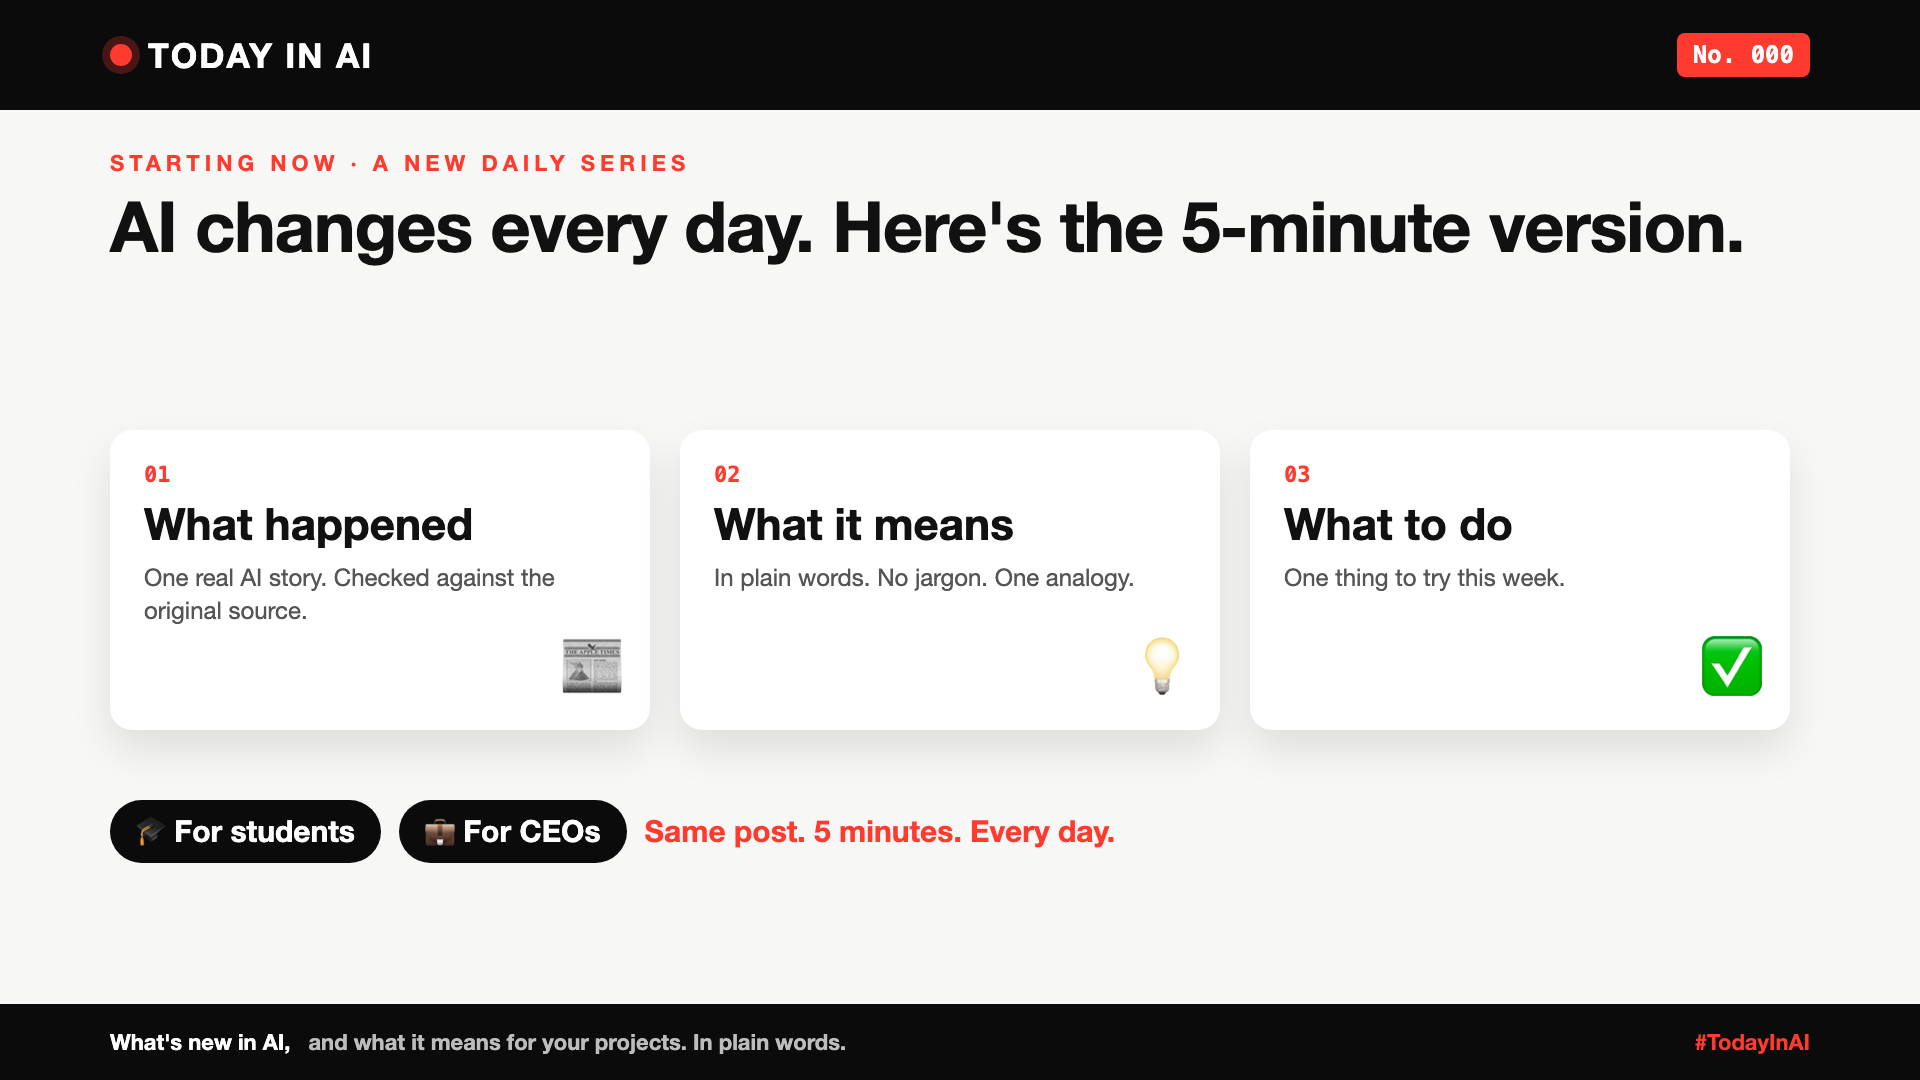
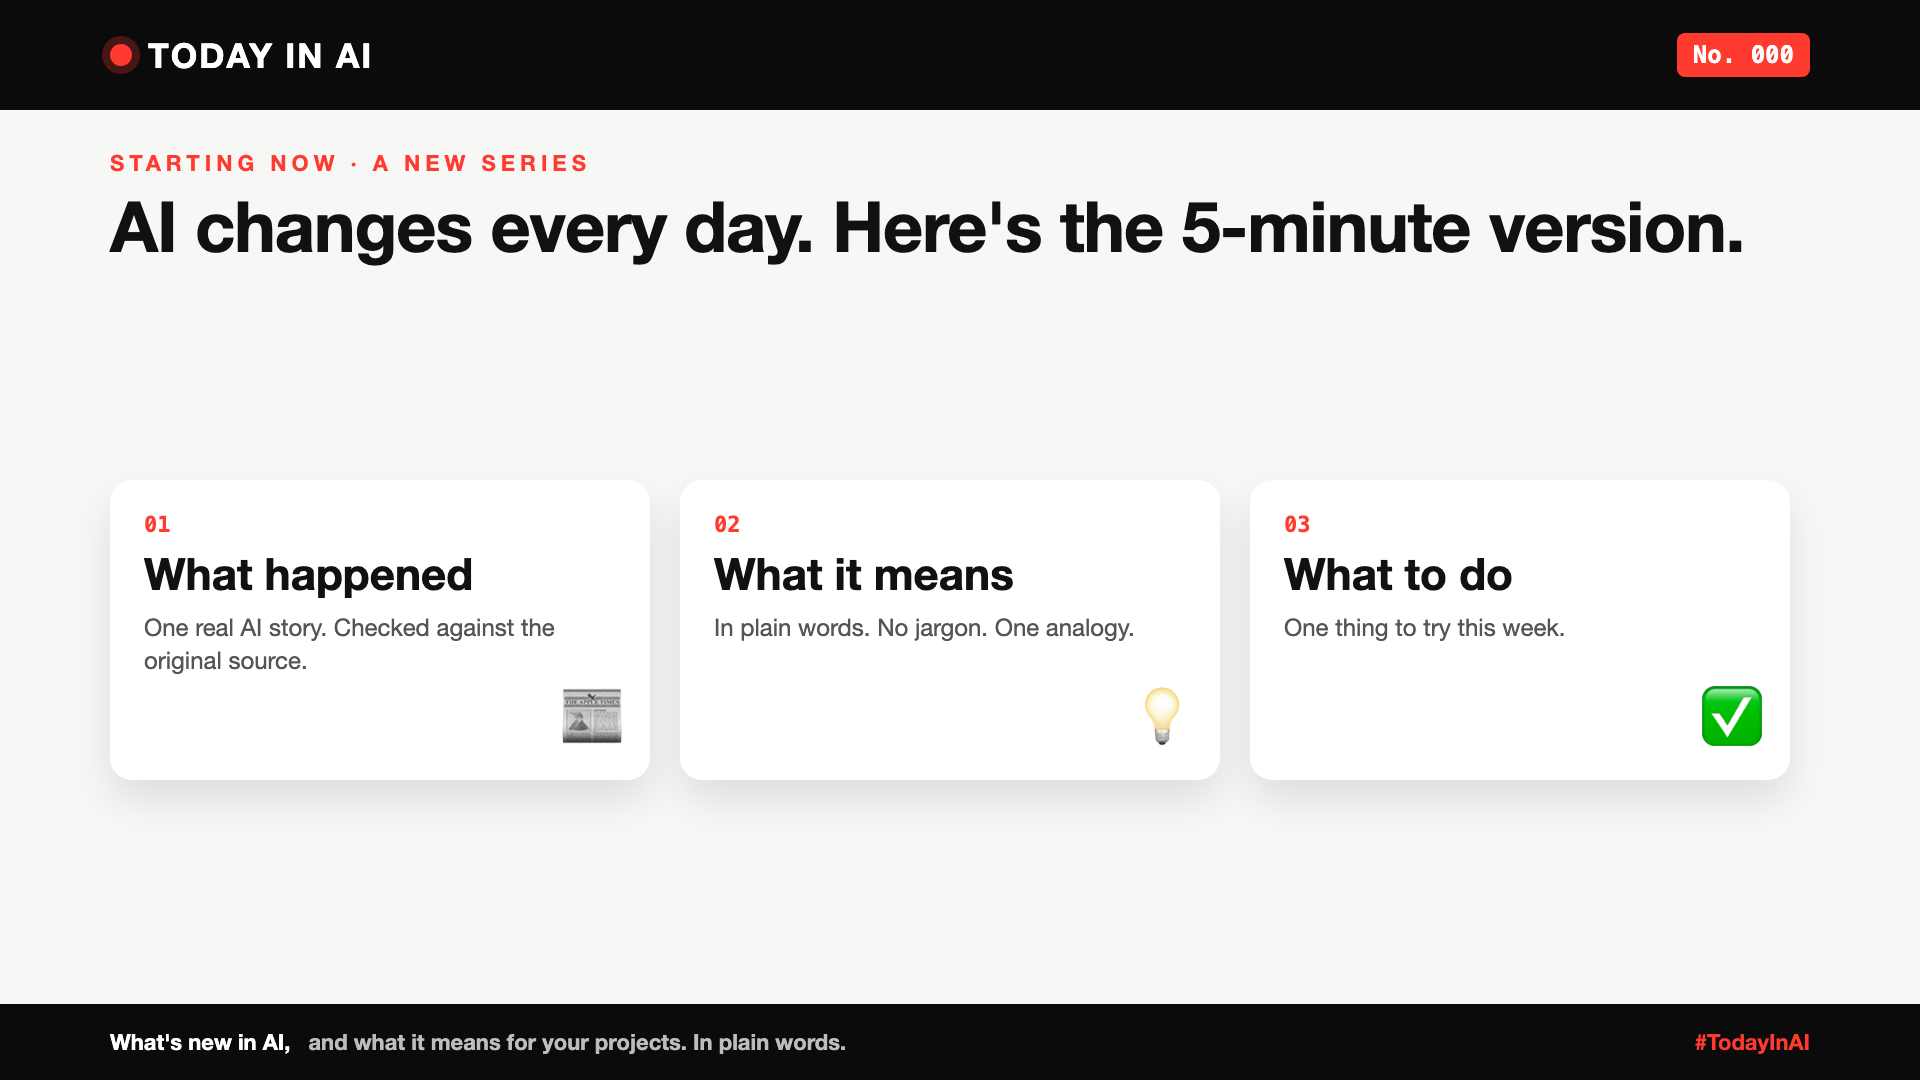
Today in AI: no fixed cadence; curtain raiser post and image updated

diff --git a/20-today-in-ai/README.md b/20-today-in-ai/README.md
@@ -2,7 +2,7 @@
 
 **Theme:** what's new in AI today, and what it means for your projects. In plain words.
 
-**Type:** an open-ended daily series. It never closes. One write-up a day, numbered No. 001, No. 002, and so on.
+**Type:** an open-ended series. It never closes. No fixed cadence: some days one, some weeks several. Numbered No. 001, No. 002, and so on. Never promise "daily" or "every day" in posts or covers.
 
 **Audience:** young readers (students, people starting their careers) AND CXOs, in the same write-up. Simpler than the other series.
 
@@ -12,7 +12,7 @@
 
 ## How each write-up works
 
-- **Pick:** one AI development that matters that day (a model release, a research result, a new tool, a regulation, a big outage or an industry move). One topic per write-up, not a news roundup.
+- **Pick:** one AI development that matters (a model release, a research result, a new tool, a regulation, a big outage or an industry move). One topic per write-up, not a news roundup.
 - **Verify:** check it on the day against the original source (the company's announcement, the paper, the official notice). Link the sources in the write-up, and date them. No rumours, no unconfirmed numbers.
 - **Keep it simple (user rule):** short sentences, everyday words, no jargon without a one-line explanation, one relatable analogy, light humor. Every write-up has: an "In one line" summary at the top, a "Why it matters to you" section with one line for people learning AI and one for leaders, a "One thing to do this week" with both angles, and a short "Words to know" list before the references.
 - **Shape (short, 400 to 600 words):**

diff --git a/ROADMAP.md b/ROADMAP.md
@@ -28,10 +28,10 @@ Each topic is its own series, numbered below. Each is a sentence that sounds eas
 | 19 | "We bought the brain, we're done" | L5 | The agent harness: you own the loop. Example: An insurance claims-processing agent. Plan: [19-agent-harness/](19-agent-harness/README.md) | **Planned (outline ready)** | The harness around the model (planner, memory, tools, state, guardrails, evals) is everything you own. Each part deserves its own look. |
 
 
-## Ongoing daily series
+## Ongoing series
 
 | Series | Topic | Cadence | What it covers | Status |
 |---|---|---|---|---|
-| 20 | Today in AI (#TodayInAI) | Daily, never closes | One trending AI development a day, verified against original sources, explained in plain words with what it means for real projects. Fixed cover frame, fresh middle design every day. Plan: [20-today-in-ai/](20-today-in-ai/README.md) | **Ready to start** |
+| 20 | Today in AI (#TodayInAI) | No fixed cadence, never closes | One trending AI development a day, verified against original sources, explained in plain words with what it means for real projects. Fixed cover frame, fresh middle design every day. Plan: [20-today-in-ai/](20-today-in-ai/README.md) | **Ready to start** |
 
 Topics 9-11, 16, 18 and 19 were inspired by a "9 AI concepts" infographic by Brij Kishore Pandey ([@brijpandeyji](https://www.linkedin.com/in/brijpandeyji/)). Topics 12 and 17 were inspired by an "Agentic RAG vs GraphRAG" comparison infographic. Topic 15 was inspired by an "Anatomy of an AI Agent" diagram.

diff --git a/20-today-in-ai/000-curtain-raiser-post.md b/20-today-in-ai/000-curtain-raiser-post.md
@@ -15,7 +15,7 @@ Most of us don't need more AI news. We need to know which story actually matters
 
 So I'm starting something small: Today in AI.
 
-Every day, one AI story. 5 minutes. Three questions:
+Each post: one AI story that matters. 5 minutes. Three questions:
 1. What happened? (Checked against the original source, with credits.)
 2. What does it mean, in plain words?
 3. What's one thing you can do this week?
@@ -24,7 +24,7 @@ It's written so a student and a CEO can read the same post, and both get somethi
 
 No hype. No jargon. No 47-tool listicles.
 
-No. 001 goes live tomorrow: what happens when your AI agent visits someone else's website?
+First up, No. 001: what happens when your AI agent visits someone else's website?
 
 Follow along, and tell me: what AI story confused you most this month?
 
@@ -33,6 +33,6 @@ Follow along, and tell me: what AI story confused you most this month?
 
 **Alternative opening lines (pick one if you prefer):**
 
-- "I read AI news for an hour every day, so you can read it for 5 minutes."
+- "I read the AI news for hours, so you can read it in 5 minutes."
 - "AI news is a firehose. I'm offering a glass of water."
 - "One AI story a day. The kind you can explain to your intern and your CEO."
